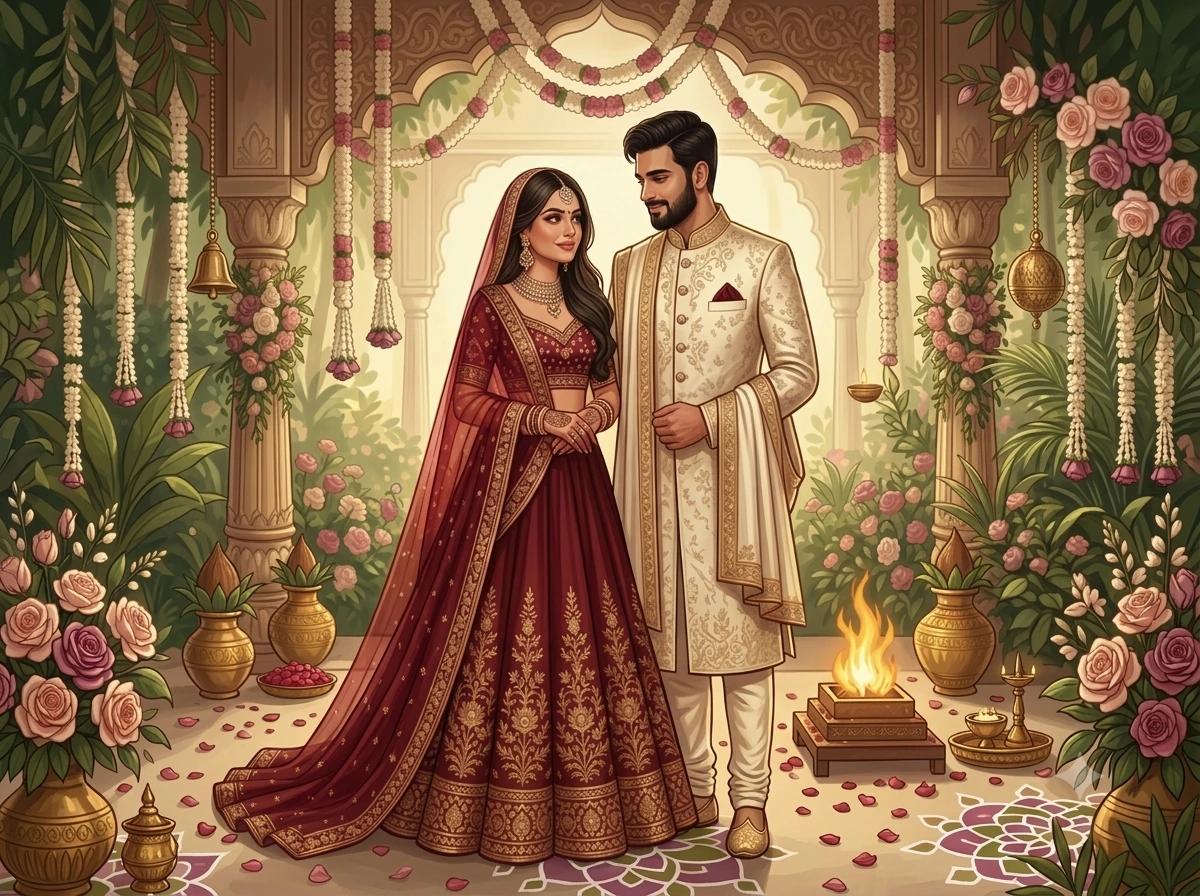
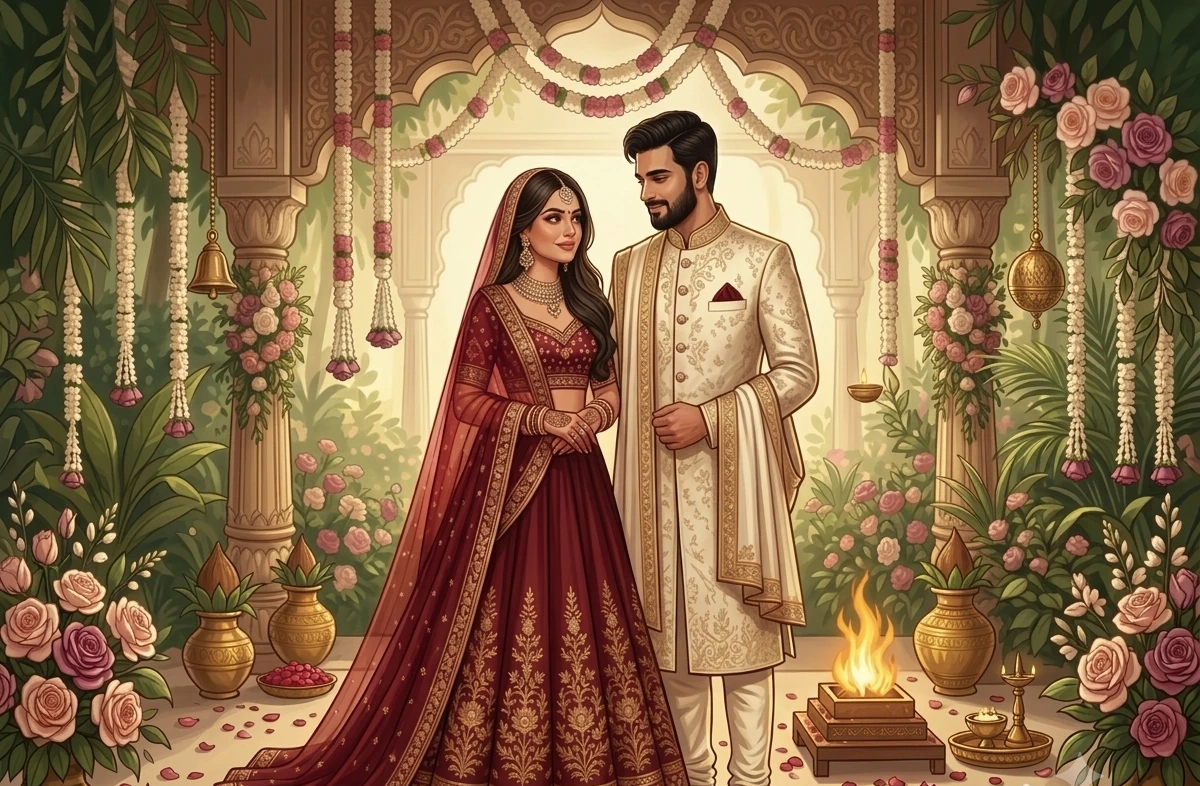
Add consistent dot separator for RSVP and Shining Stars names with refined responsive CSS

diff --git a/src/app/globals.css b/src/app/globals.css
@@ -1456,12 +1456,15 @@ html.wedding-gate-opening .opening-gate__edge-shimmer {
   visibility:hidden;
   padding:clamp(1.25rem,5vw,2rem)}
 .event-card__date {
-  color:var(--event-accent);
-  letter-spacing:.13em;
-  text-transform:uppercase;
-  margin-bottom:.55rem;
-  font-size:.68rem;
-  font-weight:700}
+  color: var(--event-accent);
+  letter-spacing: 0.1em;
+  text-transform: uppercase;
+  margin-bottom: 0.65rem;
+  font-size: clamp(0.72rem, 2.8vw, 0.82rem);
+  font-weight: 700;
+  line-height: 1.45;
+  display: inline-block;
+}
 .event-card__content h3 {
   margin-bottom:.85rem;
   font-size:clamp(1.9rem,9vw,2.8rem)}
@@ -2895,6 +2898,176 @@ html.wedding-gate-opening .opening-gate__edge-shimmer {
 .host-contact-pill__links a:hover {
   border-color: var(--maroon);
   background: var(--warm-cream);
+}
+
+/* ── Host Card: R.S.V.P, Shining Stars (बाल मनुहार) & Best Regards ─────────── */
+.host-card__rsvp-group {
+  margin-top: 1.35rem;
+  padding: 1.15rem 1.25rem;
+  background: linear-gradient(180deg, #fffcf5 0%, #faf3e5 100%);
+  border: 1px solid rgba(180, 147, 76, 0.4);
+  border-radius: 0.75rem;
+  box-shadow: 0 4px 14px rgba(116, 31, 50, 0.04);
+  text-align: center;
+}
+
+.host-card__rsvp-label {
+  font-family: var(--font-body);
+  font-size: 0.88rem;
+  font-weight: 700;
+  letter-spacing: 0.08em;
+  color: var(--maroon);
+  text-transform: uppercase;
+  margin-bottom: 0.75rem;
+  display: flex;
+  align-items: center;
+  justify-content: center;
+  gap: 0.4rem;
+}
+
+.host-card__rsvp-label span[lang="hi"] {
+  font-family: var(--font-devanagari);
+  font-size: 1.05rem;
+  font-weight: 600;
+  text-transform: none;
+}
+
+.host-card__rsvp-names {
+  display: flex;
+  flex-wrap: wrap;
+  align-items: center;
+  justify-content: center;
+  gap: 0.35rem 0.2rem;
+  line-height: 1.7;
+}
+
+.host-card__name-item {
+  display: inline-flex;
+  align-items: center;
+  white-space: nowrap;
+}
+
+.host-card__name-text {
+  font-family: var(--font-body);
+  font-size: 0.95rem;
+  font-weight: 600;
+  color: var(--dark-brown);
+  padding: 0.25rem 0.55rem;
+  background: rgba(255, 255, 255, 0.9);
+  border: 1px solid rgba(180, 147, 76, 0.3);
+  border-radius: 0.4rem;
+  box-shadow: 0 1px 3px rgba(0, 0, 0, 0.03);
+  transition: transform 0.15s ease, border-color 0.15s ease;
+}
+
+.host-card__name-text:hover {
+  border-color: rgba(180, 147, 76, 0.65);
+  transform: translateY(-1px);
+}
+
+.host-card__separator {
+  color: #b4934c;
+  font-weight: 900;
+  padding: 0 0.35rem;
+  font-size: 1.1rem;
+  user-select: none;
+}
+
+.host-card__stars-group {
+  margin-top: 1rem;
+  padding: 1rem 1.25rem;
+  background: linear-gradient(135deg, rgba(242, 192, 110, 0.15) 0%, rgba(184, 117, 123, 0.08) 100%);
+  border: 1px dashed rgba(180, 147, 76, 0.55);
+  border-radius: 0.75rem;
+  text-align: center;
+}
+
+.host-card__stars-label {
+  font-family: var(--font-body);
+  font-size: 0.84rem;
+  font-weight: 700;
+  letter-spacing: 0.06em;
+  color: var(--maroon);
+  margin-bottom: 0.6rem;
+  display: flex;
+  align-items: center;
+  justify-content: center;
+  gap: 0.4rem;
+}
+
+.host-card__stars-label span[lang="hi"] {
+  font-family: var(--font-devanagari);
+  font-size: 1rem;
+  font-weight: 600;
+}
+
+.host-card__stars-names {
+  display: flex;
+  flex-wrap: wrap;
+  align-items: center;
+  justify-content: center;
+  gap: 0.35rem 0.2rem;
+  line-height: 1.7;
+}
+
+.host-card__stars-names .host-card__name-text {
+  font-family: var(--font-display);
+  font-size: 1.08rem;
+  font-weight: 600;
+  color: #5c1825;
+  background: rgba(255, 255, 255, 0.95);
+  border-color: rgba(212, 162, 80, 0.4);
+}
+
+.host-card__wishes {
+  margin-top: 1.25rem;
+  padding: 1rem 1.15rem;
+  background: rgba(116, 31, 50, 0.04);
+  border-top: 1px solid rgba(180, 147, 76, 0.35);
+  border-radius: 0 0 0.75rem 0.75rem;
+  text-align: center;
+}
+
+.host-card__wishes-en {
+  font-family: var(--font-display);
+  font-size: 1.25rem;
+  font-weight: 700;
+  color: var(--maroon);
+  letter-spacing: 0.02em;
+  line-height: 1.35;
+}
+
+.host-card__wishes-hi {
+  font-family: var(--font-devanagari);
+  font-size: 1.05rem;
+  font-weight: 600;
+  color: #7a5528;
+  margin-top: 0.25rem;
+}
+
+@media (max-width: 640px) {
+  .host-card__rsvp-group,
+  .host-card__stars-group {
+    padding: 0.9rem 0.75rem;
+  }
+  .host-card__rsvp-names,
+  .host-card__stars-names {
+    gap: 0.25rem 0.15rem;
+  }
+  .host-card__name-text {
+    font-size: 0.88rem;
+    padding: 0.2rem 0.4rem;
+  }
+  .host-card__separator {
+    padding: 0 0.2rem;
+    font-size: 0.95rem;
+  }
+  .host-card__wishes-en {
+    font-size: 1.1rem;
+  }
+  .host-card__wishes-hi {
+    font-size: 0.95rem;
+  }
 }
 
 /* RSVP Form */

diff --git a/src/components/VenueAndRsvpSection.tsx b/src/components/VenueAndRsvpSection.tsx
@@ -67,6 +67,7 @@ function buildWhatsAppUrl(phone: string, text: string): string {
 export default function VenueAndRsvpSection({ wedding }: { wedding: WeddingData }) {
   const reduceMotion = useReducedMotion();
   const { weddingVenue, family } = wedding;
+  const { rsvpList, shiningStars } = family;
 
   return (
     <>
@@ -179,29 +180,43 @@ export default function VenueAndRsvpSection({ wedding }: { wedding: WeddingData 
               ))}
             </div>
 
-            {family.rsvpList && family.rsvpList.length > 0 && (
+            {rsvpList && rsvpList.length > 0 && (
               <div className="host-card__rsvp-group">
                 <p className="host-card__rsvp-label">
                   <span lang="hi">दर्शनाभिलाषी</span> · R.S.V.P
                 </p>
                 <div className="host-card__rsvp-names">
-                  {family.rsvpList.map((name) => (
-                    <span key={name} className="host-card__rsvp-pill">
-                      {name}
+                  {rsvpList.map((name, idx) => (
+                    <span key={name} className="host-card__name-item">
+                      <span className="host-card__name-text">{name}</span>
+                      {idx < rsvpList.length - 1 && (
+                        <span className="host-card__separator" aria-hidden="true">
+                          ·
+                        </span>
+                      )}
                     </span>
                   ))}
                 </div>
               </div>
             )}
 
-            {family.shiningStars && family.shiningStars.length > 0 && (
+            {shiningStars && shiningStars.length > 0 && (
               <div className="host-card__stars-group">
                 <p className="host-card__stars-label">
                   <span lang="hi">बाल मनुहार</span> · Special Invitation From Our Shining Stars
                 </p>
-                <p className="host-card__stars-names">
-                  {family.shiningStars.join(" · ")}
-                </p>
+                <div className="host-card__stars-names">
+                  {shiningStars.map((name, idx) => (
+                    <span key={name} className="host-card__name-item">
+                      <span className="host-card__name-text">{name}</span>
+                      {idx < shiningStars.length - 1 && (
+                        <span className="host-card__separator" aria-hidden="true">
+                          ·
+                        </span>
+                      )}
+                    </span>
+                  ))}
+                </div>
               </div>
             )}
 
